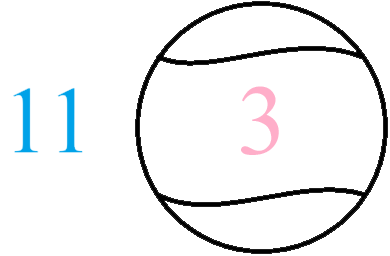
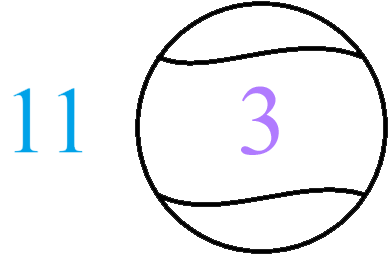
fixes

Changed region(s): [[0.6154, 0.3125, 0.7385, 0.625]]

diff --git a/index.html b/index.html
@@ -112,7 +112,7 @@ const questions = [
   {id:6,  text:`Solve the following problem: [blue]5 [dark yellow]5 [pink]2`, options:["0","12","20","27"]},
   {id:7,  text:`Solve the following problem: [blue]5 [pink]2 [blue]2 [pink]2`, options:["2","12","22","24"]},
   {id:8,  text:`Solve the following problem: [blue]5 [dark yellow]2 [pink]5 [blue]1 [dark yellow]5`, options:["1","11","16","47"]},
-  {id:9,  text:`Solve the following problem: [blue]10 [pink]4 [blue]5 [dark yellow]4`, options:["0","4","16","31"]},
+  {id:9,  text:`Solve the following problem: [blue]10 [pink]4 [purple]5 [dark yellow]4`, options:["0","4","16","31"]},
   {id:10, text:`Solve the following problem: [blue]1 [dark yellow]4 [pink]2 [blue]7`, options:["-1","1","13","17"]},
   {id:11, text:`Solve the following problem: [blue]3 [dark yellow]4 [pink]8 [purple]2 [blue]5`, options:["-4","1","20","53"]},
   {id:12, text:`Which element on the periodic table is represented by the symbol *C*?`, options:["CARBON","CALCIUM","COPPER","CHLORINE"]},
@@ -153,7 +153,7 @@ const questions = [
   ]},
   {id:43, text:`How would you say the following phrase in Erajan, "You have a very, very long name."`, options:["DAUVENJA","ULRAAJORAM","NAI DAU","LORLU RAADAU"]},
   {id:44, text:`How would you tell an Erajan "Count me out."`, options:["ERAJA NAI","ELCOUNTVO","LEAVELU?","LE"]},
-  {id:45, text:`Using the provided Erajan terms for cardinal directions above, what would be the clearest way you could give directions to someone at point A to get them to point B.`, options:[
+  {id:45, text:`<img src="public/45.png" class="qimg" alt="Question 45 image"><br>Using the provided Erajan terms for cardinal directions above, what would be the clearest way you could give directions to someone at point A to get them to point B.`, options:[
     "INN ETT ISS",
     "ETT TREI",
     "AJINN ETT OVTREI ISSJA TREIVO",
